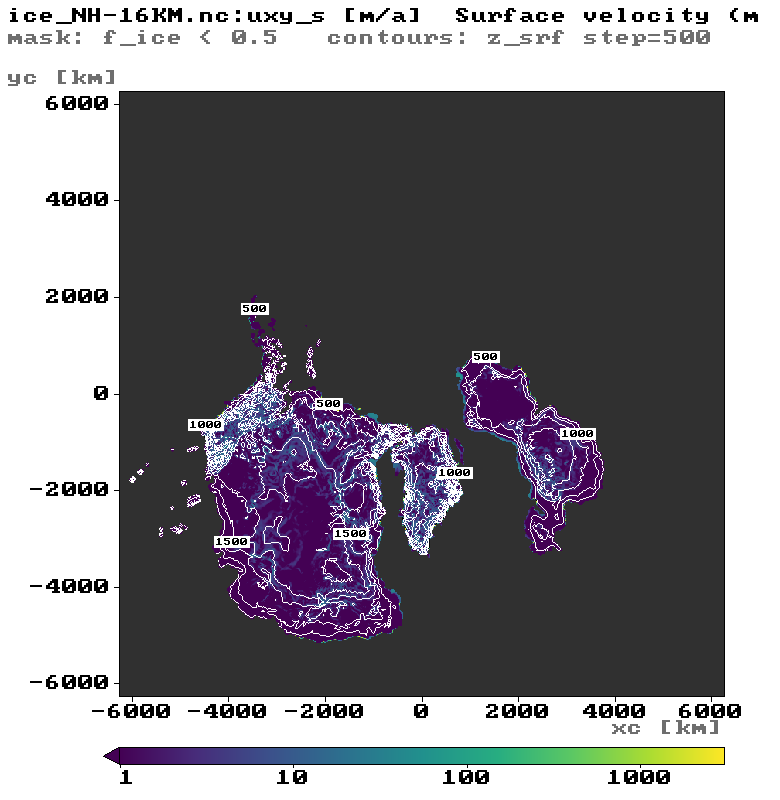
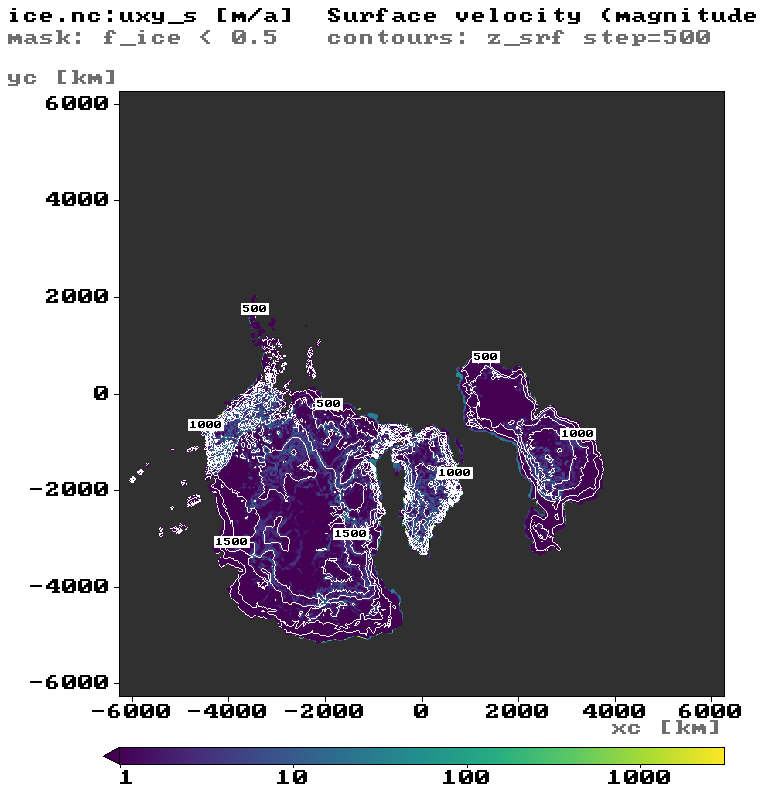
Website: terminal or desktop, each with its screenshots (pixels and half-blocks side by side); four ways in, nqv -g among them; no sideways scrolling on phones

Changed region(s): [[0.5846, 0.0, 0.9846, 0.0312], [0.0923, 0.0, 0.4923, 0.0312], [0.5231, 0.0, 0.5538, 0.0312]]

diff --git a/site/index.html b/site/index.html
@@ -12,9 +12,9 @@
 <header class="top">
   <a class="brand" href="#"><img src="images/logo.svg" alt="" width="28" height="28">nqv</a>
   <nav>
-    <a href="#terminal">Terminal</a>
-    <a href="#desktop">Desktop</a>
-    <a href="#command-line">Command line</a>
+    <a href="#modes">Terminal or desktop</a>
+    <a href="#ways">Four ways in</a>
+    <a href="#features">Features</a>
     <a href="#download">Download</a>
     <a href="https://github.com/mathesislab/nqv">Source</a>
   </nav>
@@ -23,55 +23,126 @@
 <main>
 <section class="hero">
   <h1>Look at model output where it is</h1>
-  <p class="lead">nqv shows the maps and series of NetCDF files, fast, in any terminal over plain ssh, or in a
+  <p class="lead">nqv shows the maps and series of NetCDF files, fast: in any terminal over plain ssh, or in a
     desktop window that reads the files on the cluster. Step through time, click a cell for its series, mask,
     contour, compare two runs; whatever you see can be repeated as one command line or saved as a PNG.</p>
   <p class="actions">
-    <a class="button primary" href="https://github.com/mathesislab/nqv/releases/latest/download/nqv-desktop-macos-aarch64.dmg">Download for Mac</a>
-    <a class="button" href="#download">Linux and HPC</a>
+    <a class="button primary" href="#download">Download</a>
+    <a class="button" href="#modes">Terminal or desktop?</a>
     <a class="button" href="https://github.com/mathesislab/nqv">View source</a>
   </p>
-  <p class="more">Desktop app for macOS (Apple silicon) and Linux; terminal viewer for Linux (x86-64, ARM) and
-    macOS. <a href="https://github.com/mathesislab/nqv/releases">All releases</a></p>
-
-  <img src="images/desktop.png" alt="The desktop app on Linux: ice surface velocity of a CLIMBER-X run on a log scale, masked outside the ice, with surface elevation contours" width="1280" height="860">
+  <img src="images/desktop.png" alt="The desktop app on Linux showing ice surface velocity of a CLIMBER-X run on a log scale, masked outside the ice, with surface elevation contours; the data is read on the cluster" width="1280" height="860">
 </section>
 
-<section class="features">
-  <article id="terminal" class="feature wide">
+<section id="modes" class="modes">
+  <h2>Terminal or desktop</h2>
+  <p class="intro">One viewer with two faces. Both have the same keys, <code>:</code> commands and command-line
+    options; <code>p</code> in either prints the command for the view you have.</p>
+
+  <article class="mode feature wide">
     <div>
-      <h2>In any terminal, over ssh</h2>
-      <p><code>nqv run/</code> on the login node opens the folder's files: arrows step through time and levels,
-        <code>v</code> picks a variable by a few letters, a click gives a cell's value and its series. Maps are drawn
-        with the terminal's image protocol where there is one (kitty, iTerm2, WezTerm, sixel), else with coloured
-        half-blocks, so it works in Terminal.app and under tmux.</p>
-      <p>One static binary, no libraries to load: copy it to <code>~/bin</code>. Files are read a slice at a
-        time, only as much as the screen shows.</p>
+      <h3>Terminal viewer <code>nqv</code></h3>
+      <p class="where">Runs where the data is: in your ssh session on the login node.</p>
+      <ul>
+        <li>One static binary for Linux (x86-64, ARM) and macOS. Copy it to <code>~/bin</code>; nothing to load.</li>
+        <li>Arrows step through time and levels, <code>v</code> picks a variable by a few letters, a click gives a
+          cell's value and series; statistics at the side.</li>
+        <li>Full pixels in terminals with an image protocol: kitty, Ghostty, WezTerm, iTerm2, and sixel ones.
+          Coloured half-blocks everywhere else, including Terminal.app, GNOME Terminal and tmux:</li>
+      </ul>
+      <div class="pair">
+        <figure>
+          <img src="images/detail-pixels.png" alt="Close-up of the map in a terminal with sixel graphics: smooth velocity field and thin contour lines" loading="lazy" width="390" height="260">
+          <figcaption>pixels</figcaption>
+        </figure>
+        <figure>
+          <img src="images/detail-blocks.png" alt="The same close-up with half-block characters: coarse coloured cells, contours as braille dots" loading="lazy" width="390" height="260">
+          <figcaption>half-blocks</figcaption>
+        </figure>
+      </div>
     </div>
-    <img src="images/terminal.png" alt="The terminal viewer in an xterm: the same map in coloured half-blocks, contours as braille dots, statistics at the side" loading="lazy" width="1348" height="873">
+    <figure>
+      <img src="images/terminal-pixels.png" alt="The terminal viewer in an xterm with sixel graphics: ice surface velocity, masked outside the ice, with elevation contours, statistics at the side and the status line below" loading="lazy" width="1330" height="873">
+      <figcaption>The terminal viewer in xterm, with sixel graphics</figcaption>
+    </figure>
   </article>
 
-  <article id="desktop" class="feature wide reverse">
+  <article class="mode feature wide reverse">
     <div>
-      <h2>A window on files anywhere</h2>
-      <p>The desktop app draws maps at the screen's full resolution: the wheel zooms around the pointer, a drag
-        pans, a click shows the series below the map. Open local files, or <code>albedo0:/path/to/run</code>: nqv
-        starts itself on the host over ssh and only screen-sized maps cross the network, so a 100 MB file opens in
-        seconds.</p>
-      <p>Already on the cluster? <code>nqv -g file.nc</code> in your ssh session opens the view in the app on
-        your laptop, through a socket ssh forwards. The terminal viewer reads remote files too, with
-        <code>nqv HOST:PATH</code>.</p>
+      <h3>Desktop app</h3>
+      <p class="where">Runs on your laptop (macOS, Linux); reads files there or on a cluster.</p>
+      <ul>
+        <li>Maps at the screen's full resolution, drawn by the graphics card: changing colours or range is
+          instant.</li>
+        <li>The wheel zooms around the pointer, a drag pans, a click shows the cell's series below the map; a
+          toolbar for colour map, range, smoothing and comparison, a list of variables at the side.</li>
+        <li>Open local files, or <code>albedo0:/path/to/run</code>; or send a view from the cluster with
+          <code>nqv -g</code>. Each view has a window of its own.</li>
+      </ul>
+    </div>
+    <figure>
+      <img src="images/desktop.png" alt="The desktop app showing the same view, handed over from albedo0 with nqv -g" loading="lazy" width="1280" height="860">
+      <figcaption>The same view, sent from the cluster with <code>nqv -g</code></figcaption>
+    </figure>
+  </article>
+</section>
+
+<section id="ways" class="ways">
+  <h2>Four ways in</h2>
+  <p class="intro">Wherever you start, the data is read where it lies and only screen-sized maps travel: a 100 MB
+    file opens in seconds over ssh.</p>
+  <div class="table">
+    <table>
+      <thead>
+        <tr><th>You type</th><th>Where</th><th>Drawn</th><th>Data read</th></tr>
+      </thead>
+      <tbody>
+        <tr>
+          <td data-label="You type"><code>nqv run/</code></td>
+          <td data-label="Where">ssh session on the cluster</td>
+          <td data-label="Drawn">that terminal</td>
+          <td data-label="Data read">on the cluster</td>
+        </tr>
+        <tr>
+          <td data-label="You type"><code>nqv -g run/</code></td>
+          <td data-label="Where">ssh session on the cluster</td>
+          <td data-label="Drawn">the desktop app on your laptop</td>
+          <td data-label="Data read">on the cluster</td>
+        </tr>
+        <tr>
+          <td data-label="You type"><code>nqv albedo0:/path/run/</code></td>
+          <td data-label="Where">terminal on your laptop</td>
+          <td data-label="Drawn">that terminal</td>
+          <td data-label="Data read">on the cluster, by <code>nqv</code> started over ssh</td>
+        </tr>
+        <tr>
+          <td data-label="You type">Open… <code>albedo0:/path/run/</code></td>
+          <td data-label="Where">the desktop app</td>
+          <td data-label="Drawn">its window</td>
+          <td data-label="Data read">on the cluster, by <code>nqv</code> started over ssh</td>
+        </tr>
+      </tbody>
+    </table>
+  </div>
+  <p class="note"><code>nqv -g</code> reaches the app through a socket that ssh forwards: one line in
+    <code>~/.ssh/config</code> on your laptop, which <code>nqv -g</code> prints for you
+    (<a href="https://github.com/mathesislab/nqv#from-a-cluster-to-the-desktop-app">details</a>). Without it, or
+    without the app running, it draws in the terminal.</p>
+</section>
+
+<section id="features" class="features">
+  <article id="command-line" class="feature wide">
+    <div>
+      <h2>Everything on the command line</h2>
+      <p>Every setting is a flag and a <code>:</code> command, and <code>p</code> prints the command line of the
+        view you have. <code>--png</code> writes the view to a file without opening anything, for scripts and
+        notebooks:</p>
+      <pre><code>nqv run/ice_NH-16KM.nc -v uxy_s \
+  --mask "f_ice &lt; 0.5" \
+  --contour "z_srf step=500" \
+  --range log,1,3000 --png velocity.png</code></pre>
     </div>
     <img src="images/png.png" alt="A PNG written by nqv --png: the map with axes, colour bar, contour labels" loading="lazy" width="780" height="800">
-  </article>
-
-  <article id="command-line" class="feature">
-    <h2>Everything on the command line</h2>
-    <p>Every setting is a flag and a <code>:</code> command, and <code>p</code> prints the command line of the
-      view you have. <code>--png</code> writes the view to a file without opening anything, for scripts and
-      notebooks:</p>
-    <pre><code>nqv run/ice_NH-16KM.nc -v uxy_s --mask "f_ice &lt; 0.5" \
-    --contour "z_srf step=500" --range log,1,3000 --png velocity.png</code></pre>
   </article>
 
   <div class="grid">
@@ -141,8 +212,8 @@ chmod +x ~/bin/nqv</code></pre>
       <p>On a Mac, <code>nqv-macos-aarch64</code> the same way.</p>
     </article>
   </div>
-  <p class="more">Opening files on a host needs ssh to log in without a prompt (a key in ssh-agent) and nqv on the
-    host, of the same version. The desktop app updates itself when you ask. All versions are on the
+  <p class="more">Files on a cluster need ssh to log in without a prompt (a key in ssh-agent) and nqv there, of
+    the same version as on your laptop. The desktop app updates itself when you ask. All versions are on the
     <a href="https://github.com/mathesislab/nqv/releases">releases page</a>; to build it yourself, see the
     <a href="https://github.com/mathesislab/nqv#readme">README</a>.</p>
 </section>

diff --git a/site/style.css b/site/style.css
@@ -270,6 +270,112 @@ footer {
   font-size: 14px;
 }
 
+/* terminal or desktop: two columns, each with its screenshots */
+.modes,
+.ways {
+  padding: 56px 0 0;
+}
+
+.intro {
+  max-width: 720px;
+  color: var(--muted);
+  margin: 0 0 28px;
+}
+
+.mode h3 {
+  font-size: 24px;
+}
+
+.mode h3 code {
+  font-size: 0.8em;
+}
+
+.modes .feature.wide {
+  margin-bottom: 56px;
+}
+
+.where {
+  color: var(--accent);
+  font-weight: 600;
+  margin: 0 0 8px;
+}
+
+.mode ul {
+  padding-left: 1.2em;
+  margin: 0 0 20px;
+  font-size: 15.5px;
+  color: var(--muted);
+}
+
+.mode li {
+  margin-bottom: 6px;
+}
+
+figure {
+  margin: 0;
+}
+
+figure img {
+  display: block;
+  border-radius: 8px;
+  border: 1px solid var(--line);
+}
+
+figcaption {
+  margin-top: 8px;
+  font-size: 14px;
+  color: var(--muted);
+  text-align: center;
+}
+
+.pair {
+  display: grid;
+  grid-template-columns: 1fr 1fr;
+  gap: 12px;
+}
+
+/* four ways in */
+.table {
+  overflow-x: auto;
+}
+
+table {
+  width: 100%;
+  border-collapse: collapse;
+  font-size: 16px;
+}
+
+th,
+td {
+  text-align: left;
+  padding: 12px 14px;
+  border-bottom: 1px solid var(--line);
+  vertical-align: top;
+}
+
+th {
+  color: var(--muted);
+  font-weight: 600;
+  font-size: 14px;
+  text-transform: uppercase;
+  letter-spacing: 0.04em;
+}
+
+td:first-child {
+  white-space: nowrap;
+}
+
+.note {
+  color: var(--muted);
+  font-size: 15.5px;
+  max-width: 820px;
+}
+
+.hero > img {
+  border-radius: 10px;
+  border: 1px solid var(--line);
+}
+
 /* where a screenshot will go: a dashed box with its caption */
 .hero .also {
   max-width: 760px;
@@ -289,6 +395,50 @@ footer {
 
 .also p:last-child {
   margin-bottom: 0;
+}
+
+/* grid items no wider than their column: long lines in pre scroll instead */
+.feature.wide > *,
+.platform {
+  min-width: 0;
+}
+
+@media (max-width: 640px) {
+  /* the table as one block per row, each value with its column's name */
+  table,
+  tbody,
+  tr,
+  td {
+    display: block;
+  }
+
+  thead {
+    display: none;
+  }
+
+  tr {
+    padding: 10px 0;
+    border-bottom: 1px solid var(--line);
+  }
+
+  td {
+    border: 0;
+    padding: 3px 0;
+  }
+
+  td::before {
+    content: attr(data-label);
+    display: inline-block;
+    min-width: 6.5em;
+    color: var(--muted);
+    font-size: 13px;
+    text-transform: uppercase;
+    letter-spacing: 0.04em;
+  }
+
+  td:first-child::before {
+    content: none;
+  }
 }
 
 @media (max-width: 760px) {
